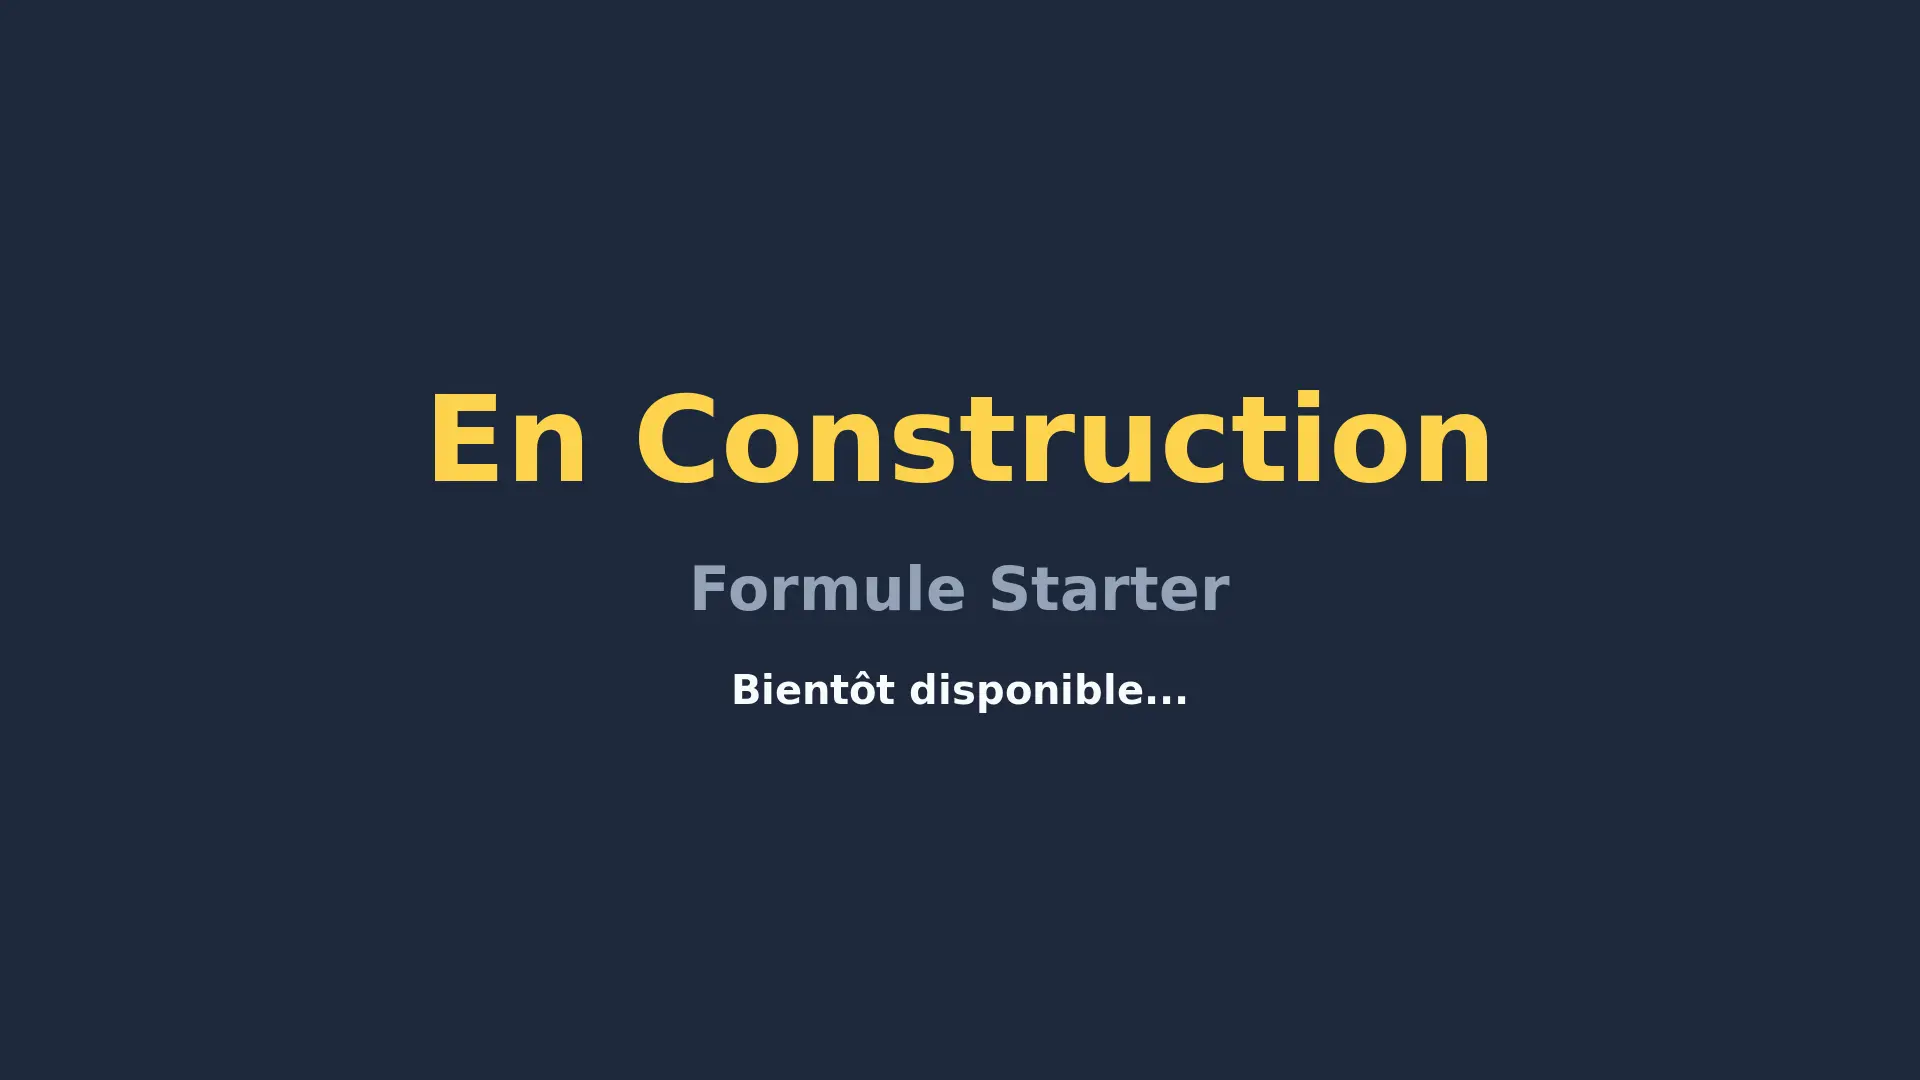
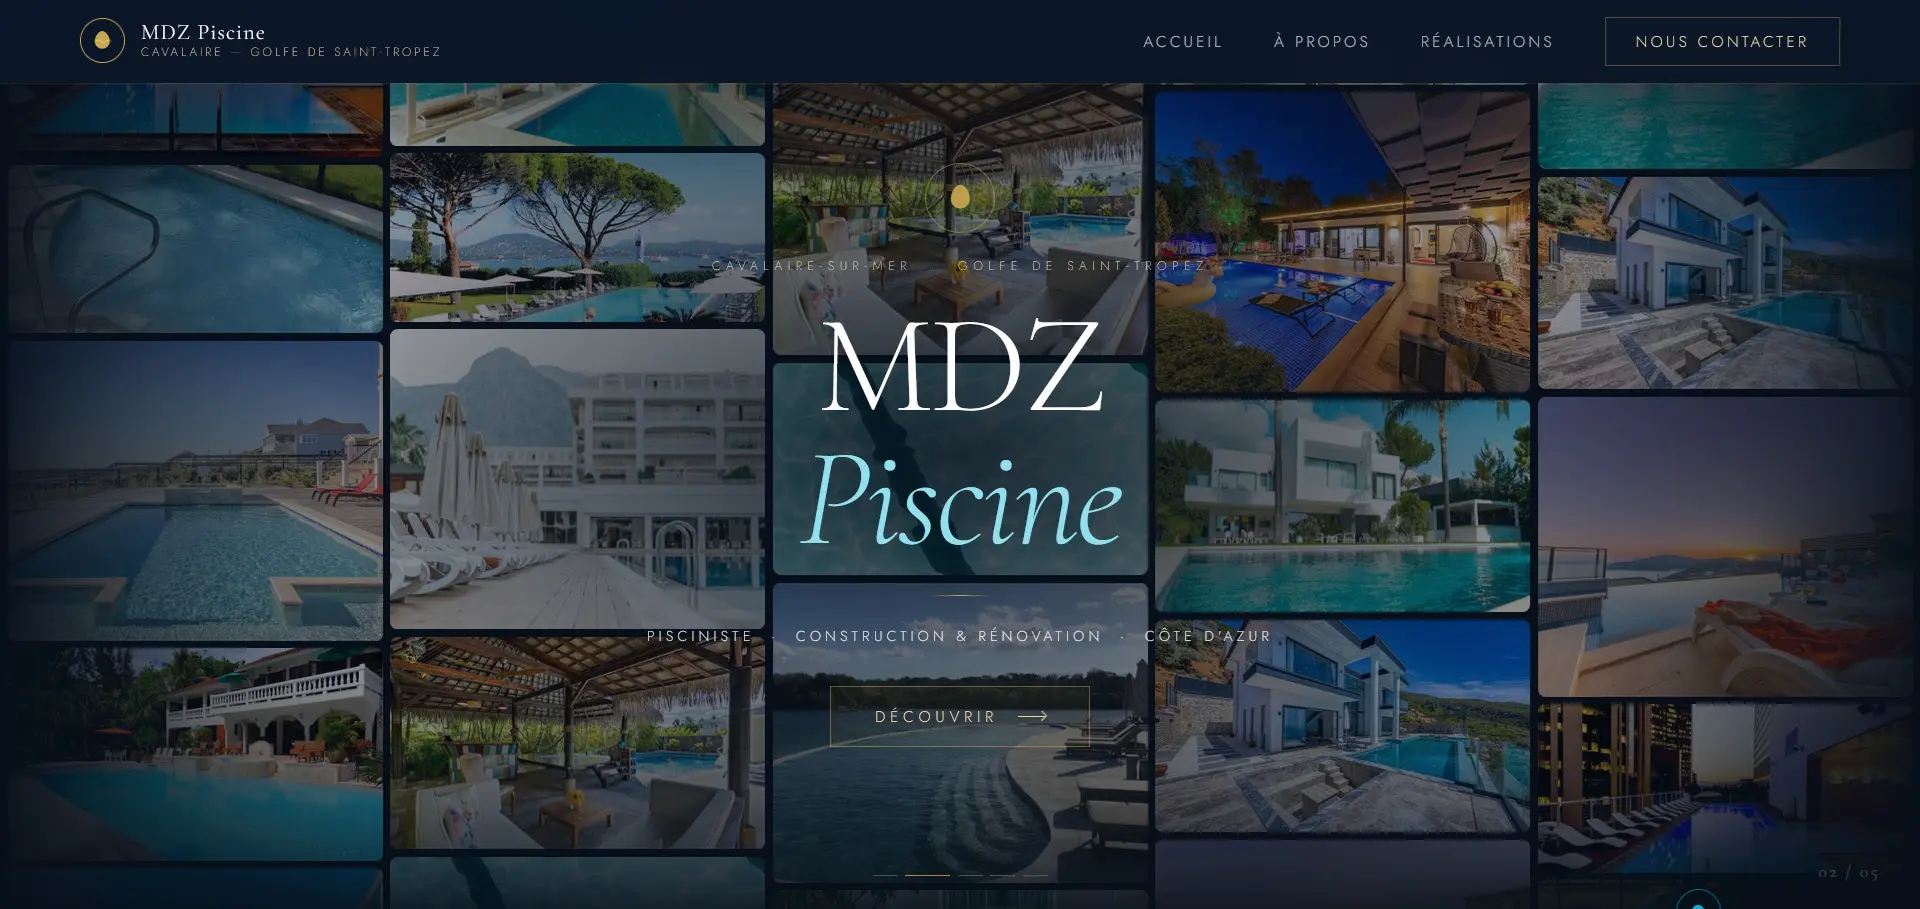
✨ WebBoost Studio - Version finale avec MDZ Piscine - Ajout MDZ Piscine dans formule Starter - Intro parfaitement centrée sur mobile - Intro 4.5s + fade out rapide - Hero parfaitement centré - Menu déroulant Type de projet - Bannière cookies RGPD - Responsive mobile optimisé - Tous les exemples de f

diff --git a/index.html b/index.html
@@ -239,11 +239,12 @@
             <div class="portfolio-grid">
                 <div class="portfolio-item">
                     <div class="portfolio-image">
-                        <img src="exemple-starter.webp" alt="Exemple Formule Starter" loading="lazy">
+                        <img src="exemple-starter.webp" alt="Exemple Formule Starter - MDZ Piscine" loading="lazy">
                         <div class="portfolio-overlay">
-                            <span class="badge-portfolio">Exemple</span>
-                            <h3>Formule Starter</h3>
-                            <p>Site vitrine essentiel - 3 pages - 600€</p>
+                            <span class="badge-portfolio badge-gold">Exemple</span>
+                            <h3>MDZ Piscine</h3>
+                            <p>Pisciniste Golfe de Saint-Tropez - Formule Starter</p>
+                            <a href="https://fvccrew.github.io/mdz-piscine/" target="_blank" class="btn btn-small">Voir l'exemple</a>
                         </div>
                     </div>
                 </div>
@@ -352,7 +353,7 @@
                         </div>
                         <div class="contact-details">
                             <h4>Email</h4>
-                            <a href="mailto:[email redacted]">[email redacted]</a>
+                            <a href="/cdn-cgi/l/email-protection#9ae9fef7f3f6f3e0f3fbf4f5dafdf7fbf3f6b4f9f5f7"><span class="__cf_email__" data-cfemail="92e1f6fffbfefbe8fbf3fcfdd2f5fff3fbfebcf1fdff">[email&#160;protected]</span></a>
                         </div>
                     </div>
                     

diff --git a/assets/css/index.css b/assets/css/index.css
@@ -127,7 +127,7 @@ body:has(.intro-container:not([style*="display: none"])) .hero {
 @media (max-width: 768px) {
     .intro-content {
         width: 90%;
-        transform: translate(-50%, -50%) translateX(-5%);
+        transform: translate(-50%, -50%);
     }
     
     .logo-explosion {